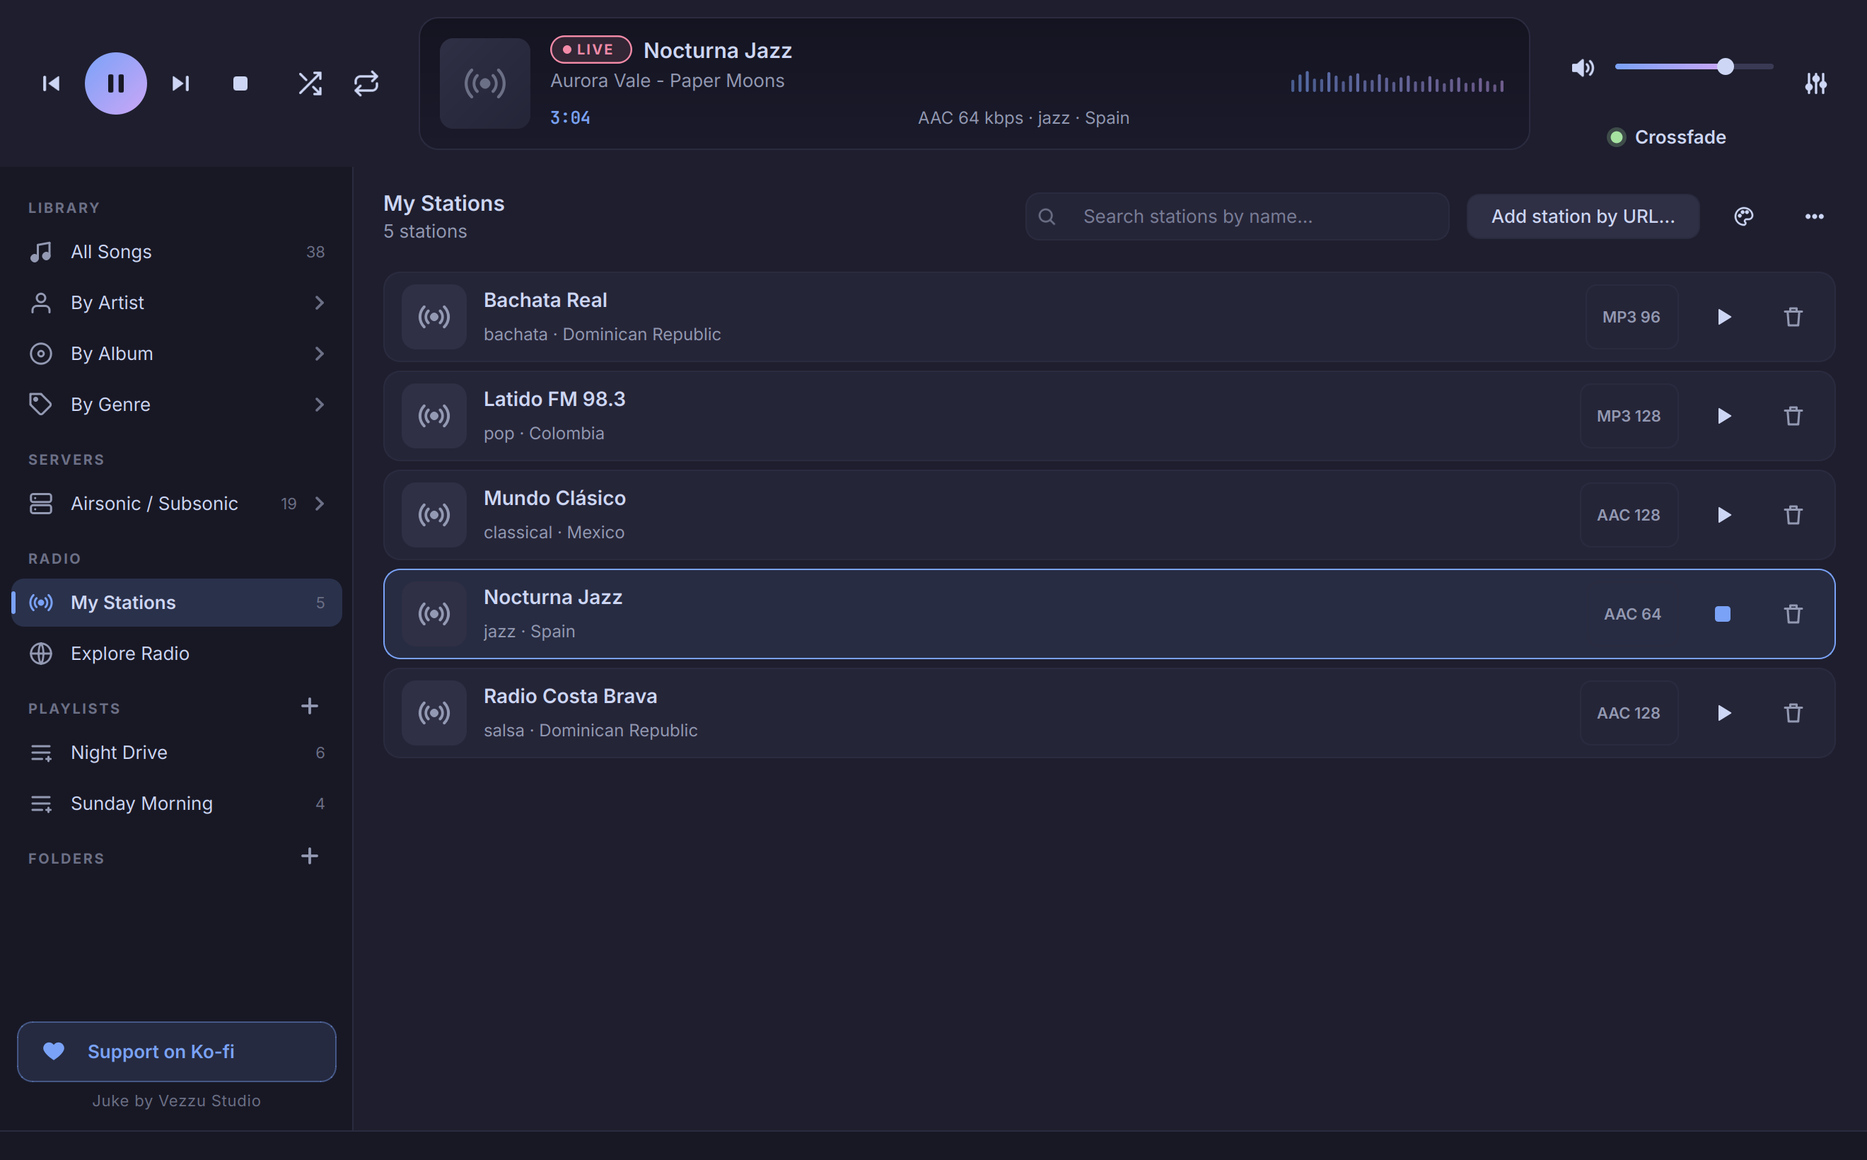
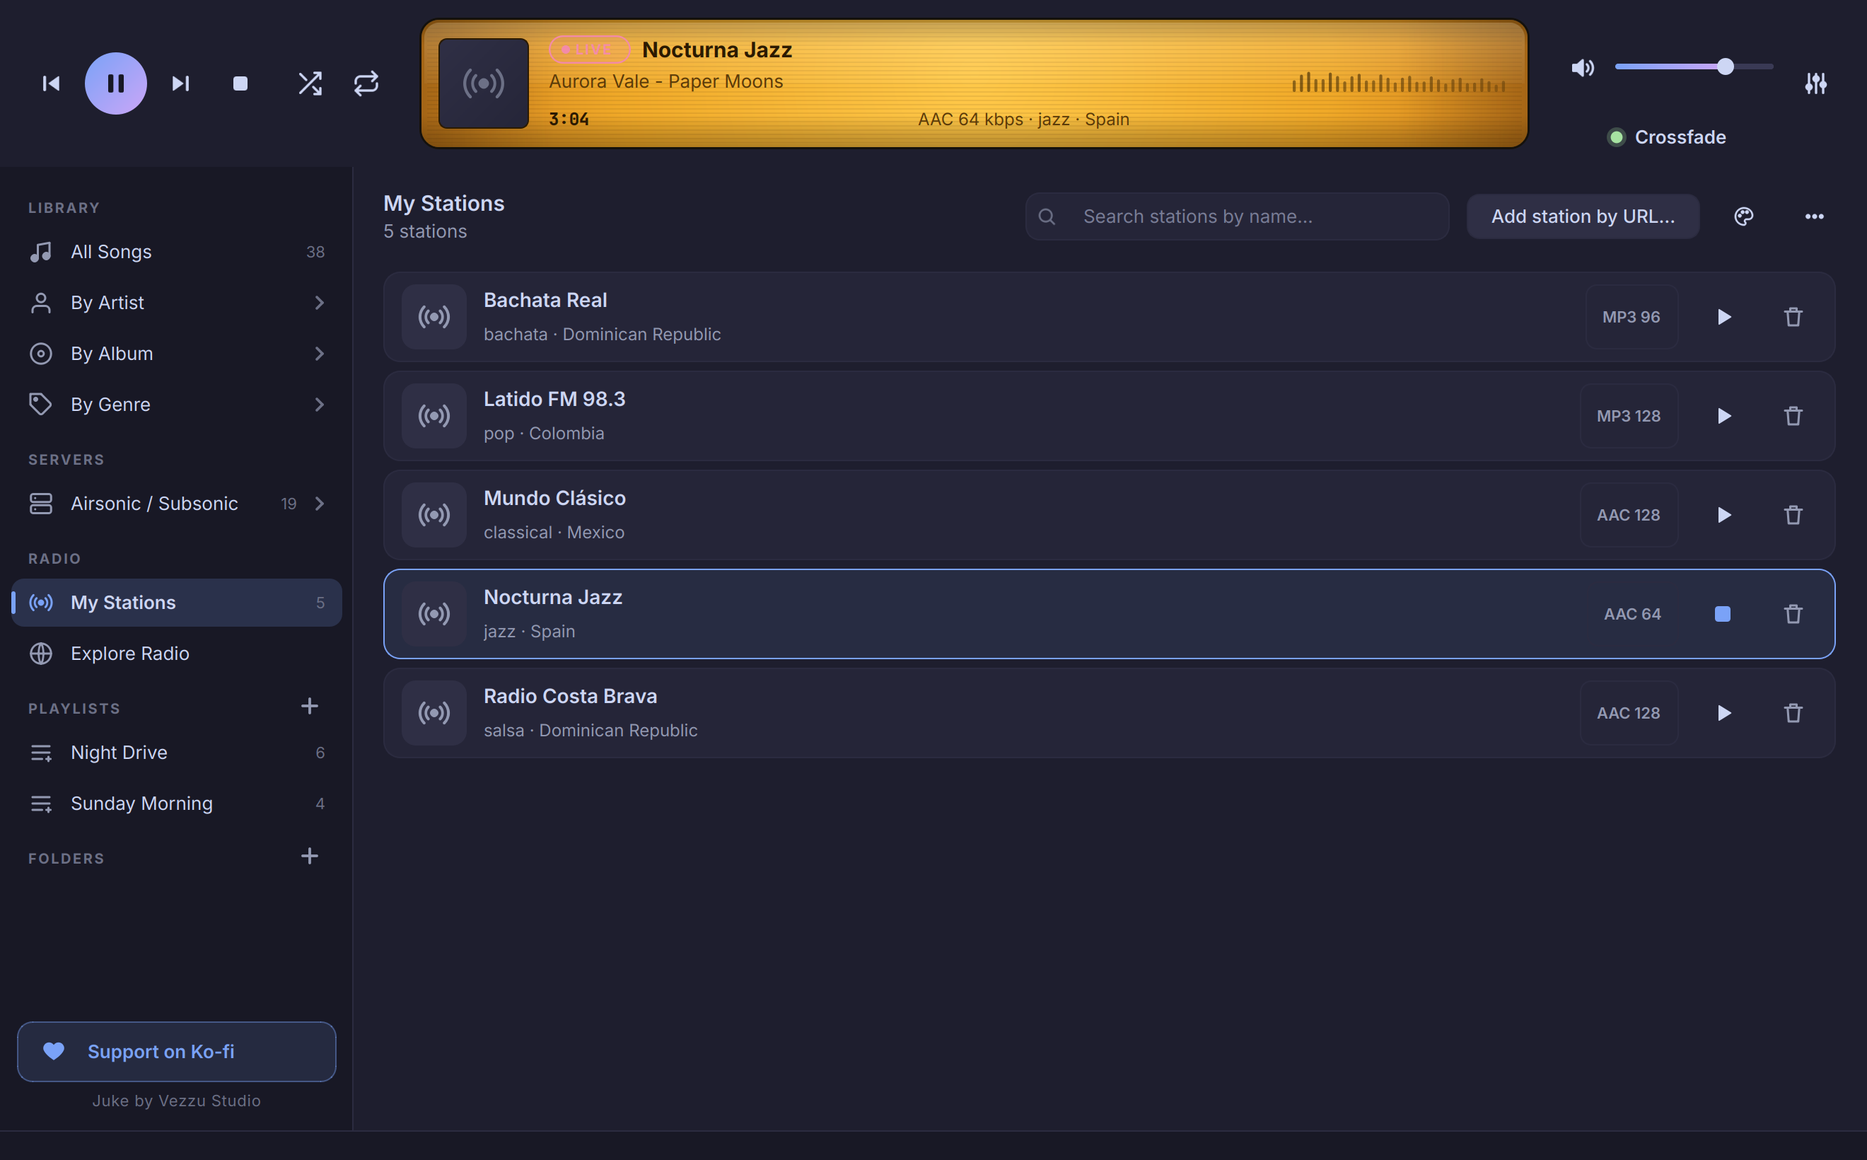
New space hero and screenshots with the glass display; website in the same colours

Changed region(s): [[0.2174, 0.0, 0.8386, 0.1555]]

diff --git a/docs/index.html b/docs/index.html
@@ -5,7 +5,7 @@
 <meta name="viewport" content="width=device-width, initial-scale=1">
 <title>Juke — a modern music player for Linux</title>
 <meta name="description" content="Juke is a modern 3-pane music player for Linux with a 10-band equalizer, Airsonic / Subsonic streaming, internet radio and a library that stays instant with 50,000+ tracks. Dark and light themes. Ships as an AppImage.">
-<meta name="theme-color" content="#181825">
+<meta name="theme-color" content="#0a0618">
 <link rel="icon" type="image/svg+xml" href="assets/juke.svg">
 <meta property="og:type" content="website">
 <meta property="og:title" content="Juke — a modern music player for Linux">
@@ -17,14 +17,15 @@
 <meta name="twitter:card" content="summary_large_image">
 <style>
 :root {
-  --base: #1e1e2e; --mantle: #181825; --crust: #11111b; --panel: #252538; --surface: #2f2f45; --border: #313147;
-  --text: #cdd6f4; --sub: #9399b2; --muted: #6c7086; --accent: #7aa2f7; --accent2: #cba6f7;
-  --grad: linear-gradient(120deg, #7aa2f7, #cba6f7);
+  --base: #0f0a22; --mantle: #0a0618; --crust: #05040d; --panel: #150e30; --surface: #1f1648; --border: #2c2150;
+  --text: #f1ecff; --sub: #b5aedb; --muted: #867fb0; --accent: #9a86ff; --accent2: #e09bff; --amber: #ffb338;
+  --grad: linear-gradient(120deg, #7aa2f7, #e09bff);
+  --lamp: linear-gradient(120deg, #ffd35c, #f0a928); --lamp-ink: #2b1a00;
   --radius: 18px;
 }
 :root[data-theme="light"] {
-  --base: #f4f5fb; --mantle: #ffffff; --crust: #eceefa; --panel: #ffffff; --surface: #eceefa; --border: #dcdff0;
-  --text: #24273a; --sub: #5b6078; --muted: #8a8fa8;
+  --base: #f6f3fd; --mantle: #ffffff; --crust: #efeafb; --panel: #ffffff; --surface: #efeafb; --border: #ddd6f1;
+  --text: #251d42; --sub: #5e5680; --muted: #8b84a8; --accent: #6a4fe0; --accent2: #b84fd2;
 }
 * { box-sizing: border-box; }
 html { scroll-behavior: smooth; }
@@ -51,12 +52,20 @@ nav .links a:hover { color: var(--text); background: var(--surface); }
 @media (max-width: 720px) { nav .links a.hide-sm { display: none; } }
 
 /* hero */
-.hero { position: relative; overflow: hidden; text-align: center; padding: 76px 0 40px; background: var(--crust); }
-.hero::before, .hero::after { content: ""; position: absolute; width: 760px; height: 760px; border-radius: 50%; filter: blur(110px); opacity: .34; pointer-events: none; }
-.hero::before { background: var(--accent); left: calc(50% - 780px); top: -420px; }
-.hero::after { background: var(--accent2); left: calc(50% + 20px); top: -440px; }
+.hero { position: relative; overflow: hidden; text-align: center; padding: 76px 0 40px; background: #05040d; color: #f1ecff;
+  --text: #f1ecff; --sub: #c9c2ee; --muted: #a39cd0; --panel: #150e30; --surface: #1f1648; --border: #2c2150; --accent: #9a86ff; --accent2: #e09bff; }
+.hero::before, .hero::after { content: ""; position: absolute; border-radius: 50%; pointer-events: none; }
+.hero::before { inset: 0; border-radius: 0; background:
+  radial-gradient(1px 1px at 12% 22%, #fff, transparent 60%), radial-gradient(1px 1px at 31% 68%, #cfd8ff, transparent 60%),
+  radial-gradient(1.4px 1.4px at 47% 14%, #fff, transparent 60%), radial-gradient(1px 1px at 63% 52%, #ffe9c4, transparent 60%),
+  radial-gradient(1.2px 1.2px at 78% 28%, #fff, transparent 60%), radial-gradient(1px 1px at 91% 74%, #cfd8ff, transparent 60%),
+  radial-gradient(1px 1px at 22% 88%, #fff, transparent 60%), radial-gradient(1.4px 1.4px at 86% 10%, #ffe9c4, transparent 60%),
+  radial-gradient(60% 70% at 20% 0%, rgba(91,108,240,.42), transparent 70%), radial-gradient(55% 70% at 85% 0%, rgba(176,76,240,.38), transparent 70%),
+  linear-gradient(160deg, #04030c, #0d0722 55%, #1a0b2e);
+  background-size: 420px 420px, 380px 380px, 460px 460px, 350px 350px, 400px 400px, 440px 440px, 360px 360px, 480px 480px, auto, auto, auto; }
+.hero::after { width: 900px; height: 520px; left: calc(50% - 450px); bottom: -300px; background: radial-gradient(closest-side, rgba(255,154,31,.5), transparent); filter: blur(30px); }
 .hero > .wrap { position: relative; }
-.hero .logo { width: 104px; height: 104px; margin: 0 auto 22px; filter: drop-shadow(0 18px 34px rgba(122,162,247,.35)); }
+.hero .logo { width: 104px; height: 104px; margin: 0 auto 22px; filter: drop-shadow(0 18px 34px rgba(154,108,255,.5)); }
 h1 { font-size: clamp(44px, 8vw, 84px); line-height: 1; letter-spacing: -.035em; margin: 0 0 14px; font-weight: 800; }
 h1 .ver { display: inline-block; vertical-align: top; margin: .32em 0 0 .18em; padding: .1em .5em; border-radius: 99px; font-size: .3em; font-weight: 800; letter-spacing: 0; color: var(--crust); background: var(--grad); -webkit-text-fill-color: var(--crust); }
 .chips { list-style: none; display: flex; flex-wrap: wrap; justify-content: center; gap: 10px; padding: 0; margin: 0 auto 26px; max-width: 62ch; }
@@ -67,8 +76,8 @@ h1 span { background: var(--grad); -webkit-background-clip: text; background-cli
 .cta { display: flex; flex-wrap: wrap; gap: 12px; justify-content: center; }
 .btn { display: inline-flex; align-items: center; gap: 10px; text-decoration: none; font-weight: 650; padding: 13px 24px; border-radius: 13px; border: 1px solid var(--border); background: var(--panel); transition: transform .15s, background .15s; }
 .btn:hover { transform: translateY(-1px); background: var(--surface); }
-.btn.primary { border: 0; color: #181825; background: var(--grad); box-shadow: 0 10px 30px rgba(122,162,247,.28); }
-.btn.primary:hover { background: linear-gradient(120deg, #8fb1f9, #d6b8fa); }
+.btn.primary { border: 0; color: var(--lamp-ink); background: var(--lamp); box-shadow: 0 10px 34px rgba(255,170,40,.38); }
+.btn.primary:hover { background: linear-gradient(120deg, #ffe08a, #ffbb3d); }
 .btn svg { width: 19px; height: 19px; }
 .fine { margin: 16px 0 0; font-size: 13.5px; color: var(--muted); }
 .shot { margin: 46px auto 0; border-radius: 16px; border: 1px solid rgba(255,255,255,.09); overflow: hidden; box-shadow: 0 40px 90px -20px rgba(0,0,0,.65), 0 0 0 1px rgba(0,0,0,.4); background: var(--base); }
@@ -82,7 +91,7 @@ h2 { font-size: clamp(30px, 4.4vw, 46px); line-height: 1.1; letter-spacing: -.02
 .center { text-align: center; } .center .intro { margin-inline: auto; }
 .grid { display: grid; grid-template-columns: repeat(auto-fit, minmax(250px, 1fr)); gap: 16px; }
 .card { background: var(--panel); border: 1px solid var(--border); border-radius: var(--radius); padding: 26px 24px 24px; }
-.card .ico { width: 44px; height: 44px; border-radius: 12px; display: grid; place-items: center; margin-bottom: 16px; background: linear-gradient(135deg, rgba(122,162,247,.20), rgba(203,166,247,.20)); }
+.card .ico { width: 44px; height: 44px; border-radius: 12px; display: grid; place-items: center; margin-bottom: 16px; background: linear-gradient(135deg, rgba(154,134,255,.22), rgba(224,155,255,.18)); }
 .card .ico svg { width: 22px; height: 22px; stroke: var(--accent); fill: none; stroke-width: 1.9; stroke-linecap: round; stroke-linejoin: round; }
 .card h3 { margin: 0 0 8px; font-size: 18px; letter-spacing: -.01em; }
 .card p { margin: 0; color: var(--sub); font-size: 15px; }
@@ -92,7 +101,7 @@ h2 { font-size: clamp(30px, 4.4vw, 46px); line-height: 1.1; letter-spacing: -.02
 .tabs { display: flex; flex-wrap: wrap; gap: 8px; justify-content: center; margin-bottom: 26px; }
 .tab { border: 1px solid var(--border); background: var(--panel); color: var(--sub); border-radius: 999px; padding: 8px 18px; font: inherit; font-size: 14px; font-weight: 600; cursor: pointer; }
 .tab:hover { color: var(--text); }
-.tab[aria-selected="true"] { color: #181825; border-color: transparent; background: var(--grad); }
+.tab[aria-selected="true"] { color: var(--lamp-ink); border-color: transparent; background: var(--lamp); }
 .gallery .shot { max-width: 1040px; margin-top: 0; }
 .gallery .shot.small { max-width: 780px; }
 .caption { text-align: center; color: var(--sub); margin: 18px auto 0; max-width: 60ch; min-height: 3.2em; }
@@ -100,7 +109,7 @@ h2 { font-size: clamp(30px, 4.4vw, 46px); line-height: 1.1; letter-spacing: -.02
 /* install */
 .steps { display: grid; grid-template-columns: repeat(auto-fit, minmax(300px, 1fr)); gap: 16px; counter-reset: s; }
 .step { background: var(--panel); border: 1px solid var(--border); border-radius: var(--radius); padding: 24px; position: relative; }
-.step::before { counter-increment: s; content: counter(s); display: grid; place-items: center; width: 30px; height: 30px; border-radius: 50%; background: var(--grad); color: #181825; font-weight: 800; font-size: 14px; margin-bottom: 14px; }
+.step::before { counter-increment: s; content: counter(s); display: grid; place-items: center; width: 30px; height: 30px; border-radius: 50%; background: var(--lamp); color: var(--lamp-ink); font-weight: 800; font-size: 14px; margin-bottom: 14px; }
 .step h3 { margin: 0 0 6px; font-size: 18px; } .step p { margin: 0 0 12px; color: var(--sub); font-size: 15px; }
 pre { margin: 0; padding: 14px 16px; background: var(--crust); border: 1px solid var(--border); border-radius: 12px; overflow-x: auto; font-size: 13.5px; line-height: 1.6; position: relative; color: var(--text); }
 .copy { position: absolute; top: 8px; right: 8px; border: 1px solid var(--border); background: var(--panel); color: var(--sub); border-radius: 8px; font: inherit; font-size: 12px; padding: 3px 9px; cursor: pointer; }

diff --git a/tools/make_assets.py b/tools/make_assets.py
@@ -180,108 +180,175 @@ def rounded(image: QImage, radius: float) -> QImage:
 
 
 def make_hero(shot: Path, out: Path, tagline: str, sub: str, chips: tuple[str, ...] = ()) -> None:
-    """Wide banner: glow, app icon, wordmark, tagline and the real screenshot."""
+    """Wide banner in deep space: nebula glow, stars, a huge record, the wordmark, tagline and the real screenshot."""
+    import math
+    from PySide6.QtCore import QPointF
+    from PySide6.QtGui import QConicalGradient, QFont, QFontMetrics, QPen
     scale = 2
     w, h = 1280 * scale, 760 * scale
     canvas = QImage(w, h, QImage.Format_ARGB32_Premultiplied)
     p = QPainter(canvas)
-    p.setRenderHint(QPainter.Antialiasing)
-    p.setRenderHint(QPainter.SmoothPixmapTransform)
-    bg = QLinearGradient(0, 0, 0, h)
-    bg.setColorAt(0, QColor("#12121c"))
-    bg.setColorAt(1, QColor("#0d0d15"))
-    p.fillRect(canvas.rect(), bg)
-    for cx, cy, r, color, alpha in ((0.28, 0.02, 0.55, "#7aa2f7", 70), (0.74, 0.0, 0.5, "#cba6f7", 60)):
-        g = QRadialGradient(w * cx, h * cy, w * r)
+    p.setRenderHints(QPainter.Antialiasing | QPainter.TextAntialiasing | QPainter.SmoothPixmapTransform)
+    p.scale(scale, scale)
+    W, H = 1280, 760
+
+    def glow(cx, cy, r, color, alpha):
+        g = QRadialGradient(cx, cy, r)
         c = QColor(color)
         c.setAlpha(alpha)
         g.setColorAt(0, c)
         c.setAlpha(0)
         g.setColorAt(1, c)
-        p.fillRect(canvas.rect(), g)
+        p.setPen(Qt.NoPen)
+        p.setBrush(g)
+        p.drawEllipse(QPointF(cx, cy), r, r)
 
-    icon = icons.render_svg(ICON_SVG.read_bytes(), 120 * scale, 1.0).toImage()
-    p.drawImage(int(w / 2 - 60 * scale), 44 * scale, icon)
-    from PySide6.QtGui import QFont
-    font = QFont("Inter")
-    font.setPixelSize(72 * scale // 1)
-    font.setWeight(QFont.Bold)
-    font.setLetterSpacing(QFont.AbsoluteSpacing, -1.5 * scale)
-    p.setFont(font)
-    title_rect = QRectF(0, 176 * scale, w, 84 * scale)
-    grad = QLinearGradient(w / 2 - 130 * scale, 0, w / 2 + 130 * scale, 0)
-    grad.setColorAt(0, QColor("#8fb1f9"))
-    grad.setColorAt(1, QColor("#d6b8fa"))
-    p.setPen(QColor("#ffffff"))
-    p.drawText(title_rect, Qt.AlignHCenter | Qt.AlignVCenter, "Juke")
-    from PySide6.QtGui import QFontMetrics
-    word = QFontMetrics(font).horizontalAdvance("Juke")                       # the "1.0" pill sits at the end of the wordmark
-    pill_font = QFont("Inter")
-    pill_font.setPixelSize(26 * scale)
-    pill_font.setWeight(QFont.Bold)
-    pill = QRectF(w / 2 + word / 2 + 14 * scale, 190 * scale, 70 * scale, 40 * scale)
-    pill_fill = QLinearGradient(pill.left(), 0, pill.right(), 0)
-    pill_fill.setColorAt(0, QColor("#7aa2f7"))
-    pill_fill.setColorAt(1, QColor("#cba6f7"))
+    bg = QLinearGradient(0, 0, W, H)
+    bg.setColorAt(0, QColor("#04030c"))
+    bg.setColorAt(0.55, QColor("#0d0722"))
+    bg.setColorAt(1, QColor("#1a0b2e"))
+    p.fillRect(0, 0, W, H, bg)
+    glow(280, 40, 560, "#5b6cf0", 95)
+    glow(1060, 100, 560, "#b04cf0", 95)
+    glow(640, 800, 620, "#ff9a1f", 95)
+    rnd = random.Random(7)
+    for _ in range(360):
+        x, y = rnd.uniform(0, W), rnd.uniform(0, H)
+        r = rnd.choice((0.5, 0.6, 0.8, 1.0, 1.3))
+        c = QColor(rnd.choice(("#ffffff", "#cfd8ff", "#ffe9c4")))
+        c.setAlpha(rnd.randint(70, 230))
+        p.setPen(Qt.NoPen)
+        p.setBrush(c)
+        p.drawEllipse(QPointF(x, y), r, r)
+    for x, y, sz in ((120, 70, 9), (1170, 60, 12), (640, 30, 7), (1240, 330, 8)):
+        glow(x, y, sz * 3, "#ffffff", 90)
+        p.setPen(QPen(QColor(255, 255, 255, 190), 0.9))
+        p.drawLine(QPointF(x - sz, y), QPointF(x + sz, y))
+        p.drawLine(QPointF(x, y - sz), QPointF(x, y + sz))
+
+    cx, cy, R = 1090, 150, 250                                                 # the record, cropped by the top-right corner
+    glow(cx, cy, R * 1.5, "#9a6cff", 110)
+    disc = QRadialGradient(cx, cy, R)
+    disc.setColorAt(0, QColor("#1a1530"))
+    disc.setColorAt(0.97, QColor("#05040a"))
+    disc.setColorAt(1, QColor("#2a2150"))
+    p.setPen(QPen(QColor(150, 130, 255, 200), 2))
+    p.setBrush(disc)
+    p.drawEllipse(QPointF(cx, cy), R, R)
+    p.setBrush(Qt.NoBrush)
+    for i in range(46):
+        p.setPen(QPen(QColor(120, 105, 200, 26 if i % 3 else 55), 0.8))
+        p.drawEllipse(QPointF(cx, cy), R * (0.36 + i * 0.0135), R * (0.36 + i * 0.0135))
+    sheen = QConicalGradient(cx, cy, 30)
+    for pos, al in ((0, 0), (0.08, 70), (0.16, 0), (0.5, 0), (0.58, 70), (0.66, 0), (1, 0)):
+        sheen.setColorAt(pos, QColor(255, 255, 255, al))
     p.setPen(Qt.NoPen)
-    p.setBrush(pill_fill)
-    p.drawRoundedRect(pill, 20 * scale, 20 * scale)
-    p.setFont(pill_font)
-    p.setPen(QColor("#11111b"))
-    p.drawText(pill, Qt.AlignCenter, "1.0")
-    font.setPixelSize(24 * scale)
-    font.setWeight(QFont.Medium)
-    font.setLetterSpacing(QFont.AbsoluteSpacing, 0)
-    p.setFont(font)
-    p.setPen(QColor("#cdd6f4"))
-    p.drawText(QRectF(0, 266 * scale, w, 34 * scale), Qt.AlignHCenter | Qt.AlignVCenter, tagline)
-    font.setPixelSize(17 * scale)
-    font.setWeight(QFont.Normal)
-    p.setFont(font)
-    p.setPen(QColor("#9399b2"))
-    p.drawText(QRectF(0, 304 * scale, w, 26 * scale), Qt.AlignHCenter | Qt.AlignVCenter, sub)
+    p.setBrush(sheen)
+    p.drawEllipse(QPointF(cx, cy), R * 0.97, R * 0.97)
+    label = QRadialGradient(cx, cy, R * 0.34)
+    label.setColorAt(0, QColor("#ffd35c"))
+    label.setColorAt(0.6, QColor("#f0a928"))
+    label.setColorAt(1, QColor("#c4701a"))
+    p.setBrush(label)
+    p.drawEllipse(QPointF(cx, cy), R * 0.34, R * 0.34)
+    p.setBrush(QColor("#0d0722"))
+    p.drawEllipse(QPointF(cx, cy), 8, 8)
 
+    title = QFont("Inter")
+    title.setPixelSize(150)
+    title.setBold(True)
+    title.setLetterSpacing(QFont.AbsoluteSpacing, -4)
+    tw = QFontMetrics(title).horizontalAdvance("Juke")
+    path = QPainterPath()
+    path.addText(70, 175, title, "Juke")
+    glow(70 + tw / 2, 120, 280, "#8f7bff", 70)
+    fill = QLinearGradient(0, 70, 0, 190)
+    fill.setColorAt(0, QColor("#ffffff"))
+    fill.setColorAt(1, QColor("#c9c2ff"))
+    p.setPen(Qt.NoPen)
+    p.setBrush(fill)
+    p.drawPath(path)
+    bx, by = 70 + tw + 20, 62                                                  # the "1.0" pill at the end of the wordmark
+    pill = QRectF(bx, by, 118, 52)
+    pill_fill = QLinearGradient(bx, 0, bx + 118, 0)
+    pill_fill.setColorAt(0, QColor("#7aa2f7"))
+    pill_fill.setColorAt(1, QColor("#e09bff"))
+    glow(bx + 59, by + 26, 90, "#b98cff", 120)
+    p.setBrush(pill_fill)
+    p.drawRoundedRect(pill, 26, 26)
+    pill_font = QFont("Inter")
+    pill_font.setPixelSize(34)
+    pill_font.setBold(True)
+    p.setFont(pill_font)
+    p.setPen(QColor("#12102a"))
+    p.drawText(pill, Qt.AlignCenter, "1.0")
+
+    def fit(font: QFont, text: str, size: int, room: int) -> None:          # the line stops short of the record
+        font.setPixelSize(size)
+        while size > 12 and QFontMetrics(font).horizontalAdvance(text) > room:
+            size -= 1
+            font.setPixelSize(size)
+
+    font = QFont("Inter")
+    font.setWeight(QFont.DemiBold)
+    fit(font, tagline, 30, 740)
+    p.setFont(font)
+    p.setPen(QColor("#f1ecff"))
+    p.drawText(QPointF(74, 236), tagline)
+    font.setWeight(QFont.Medium)
+    fit(font, sub, 18, 760)
+    p.setFont(font)
+    p.setPen(QColor(205, 200, 240, 205))
+    p.drawText(QPointF(74, 272), sub)
     if chips:                                                                  # what is new, as a row of small badges
         chip_font = QFont("Inter")
-        chip_font.setPixelSize(15 * scale)
+        chip_font.setPixelSize(15)
         chip_font.setWeight(QFont.DemiBold)
         metrics = QFontMetrics(chip_font)
-        pad, gap = 16 * scale, 10 * scale
-        widths = [metrics.horizontalAdvance(c) + 2 * pad for c in chips]
-        x0 = (w - (sum(widths) + gap * (len(chips) - 1))) / 2
-        for text, cw in zip(chips, widths):
-            box = QRectF(x0, 342 * scale, cw, 32 * scale)
-            edge = QColor("#cba6f7")
-            edge.setAlpha(90)
-            fill = QColor("#cba6f7")
-            fill.setAlpha(26)
+        x0 = 74
+        for text in chips:
+            cw = metrics.horizontalAdvance(text) + 32
+            box = QRectF(x0, 296, cw, 32)
+            edge = QColor("#ffb338")
+            edge.setAlpha(150)
+            fill_c = QColor("#ffb338")
+            fill_c.setAlpha(34)
             p.setPen(edge)
-            p.setBrush(fill)
-            p.drawRoundedRect(box, 16 * scale, 16 * scale)
+            p.setBrush(fill_c)
+            p.drawRoundedRect(box, 16, 16)
             p.setFont(chip_font)
-            p.setPen(QColor("#e4dcfb"))
+            p.setPen(QColor("#ffe7bd"))
             p.drawText(box, Qt.AlignCenter, text)
-            x0 += cw + gap
+            x0 += cw + 10
+    p.end()
+
+    p = QPainter(canvas)
+    p.setRenderHints(QPainter.Antialiasing | QPainter.SmoothPixmapTransform)
     shot_img = QImage(str(shot))
     width = 1010 * scale
     scaled = shot_img.scaledToWidth(width, Qt.SmoothTransformation)
     card = rounded(scaled, 18 * scale)
-    x, y = (w - width) // 2, 400 * scale
+    x, y = (w - width) // 2, 372 * scale
+    g = QRadialGradient(w / 2, y + 120 * scale, width * 0.62)                  # the warm light of the display spills around the window
+    c = QColor("#ffa21f")
+    c.setAlpha(80)
+    g.setColorAt(0, c)
+    c.setAlpha(0)
+    g.setColorAt(1, c)
+    p.setPen(Qt.NoPen)
+    p.setBrush(g)
+    p.drawEllipse(QPointF(w / 2, y + 120 * scale), width * 0.62, width * 0.46)
     for i in range(14):  # soft shadow
-        shadow = QColor(0, 0, 0, 12)
-        p.setPen(Qt.NoPen)
-        p.setBrush(shadow)
+        p.setBrush(QColor(0, 0, 0, 14))
         p.drawRoundedRect(QRectF(x - i * 3, y + 12 * scale - i * 2, width + i * 6, card.height() + i * 5), 24 * scale, 24 * scale)
-    outline = QColor("#ffffff")
-    outline.setAlpha(28)
     p.setBrush(Qt.NoBrush)
-    p.setPen(outline)
+    p.setPen(QColor(255, 255, 255, 40))
     p.drawRoundedRect(QRectF(x, y, width, card.height()), 18 * scale, 18 * scale)
     p.drawImage(x, y, card)
-    fade = QLinearGradient(0, h - 150 * scale, 0, h)
-    fade.setColorAt(0, QColor(13, 13, 21, 0))
-    fade.setColorAt(1, QColor(13, 13, 21, 255))
-    p.fillRect(0, h - 150 * scale, w, 150 * scale, fade)
+    fade = QLinearGradient(0, h - 170 * scale, 0, h)
+    fade.setColorAt(0, QColor(26, 11, 46, 0))
+    fade.setColorAt(1, QColor(26, 11, 46, 255))
+    p.fillRect(0, h - 170 * scale, w, 170 * scale, fade)
     p.end()
     canvas.save(str(out), "PNG")
     print("wrote", out)
@@ -409,11 +476,11 @@ def main() -> None:
     window.close()
 
     make_hero(out / "screenshot-main.png", out / "hero.png",
-              "A modern music player for Linux", "Three panes. Airsonic streaming. Internet radio. Instant with 50,000+ tracks.",
+              "A modern music player for Linux & Android", "Three panes. Airsonic streaming. Internet radio. Instant with 50,000+ tracks.",
               ("Media keys", "Crossfade", "Lyrics in any language", "An equalizer for everyone"))
     translator.set_language("es")
     make_hero(out / "screenshot-main-es.png", out / "hero-es.png",
-              "Un reproductor de música moderno para Linux", "Tres paneles. Streaming Airsonic. Radio por Internet. Instantáneo con más de 50.000 pistas.",
+              "Un reproductor de música moderno para Linux y Android", "Tres paneles. Streaming Airsonic. Radio por Internet. Instantáneo con más de 50.000 pistas.",
               ("Teclas multimedia", "Crossfade", "Letras en cualquier idioma", "Un ecualizador para todos"))
 
     svg = ICON_SVG.read_bytes()
